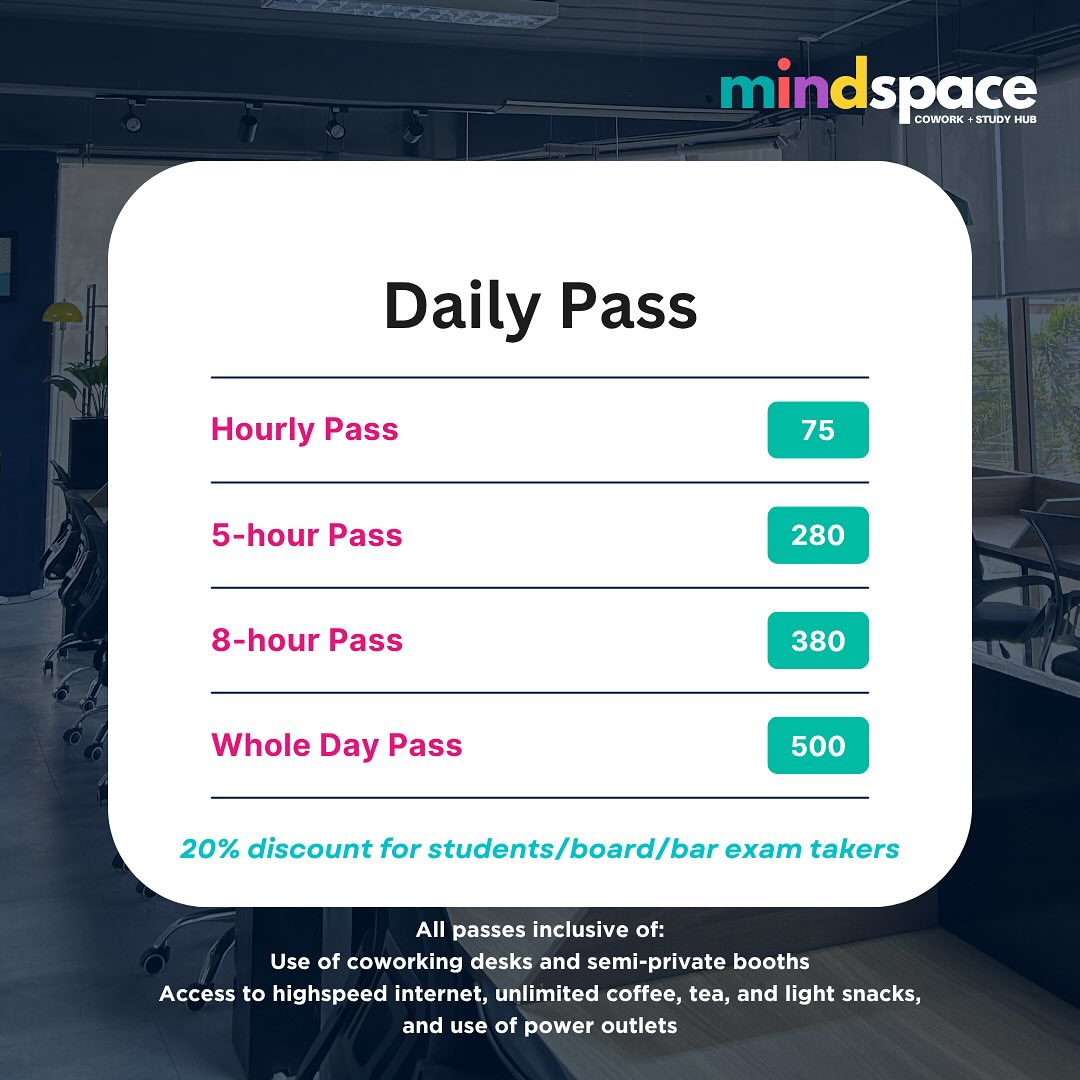
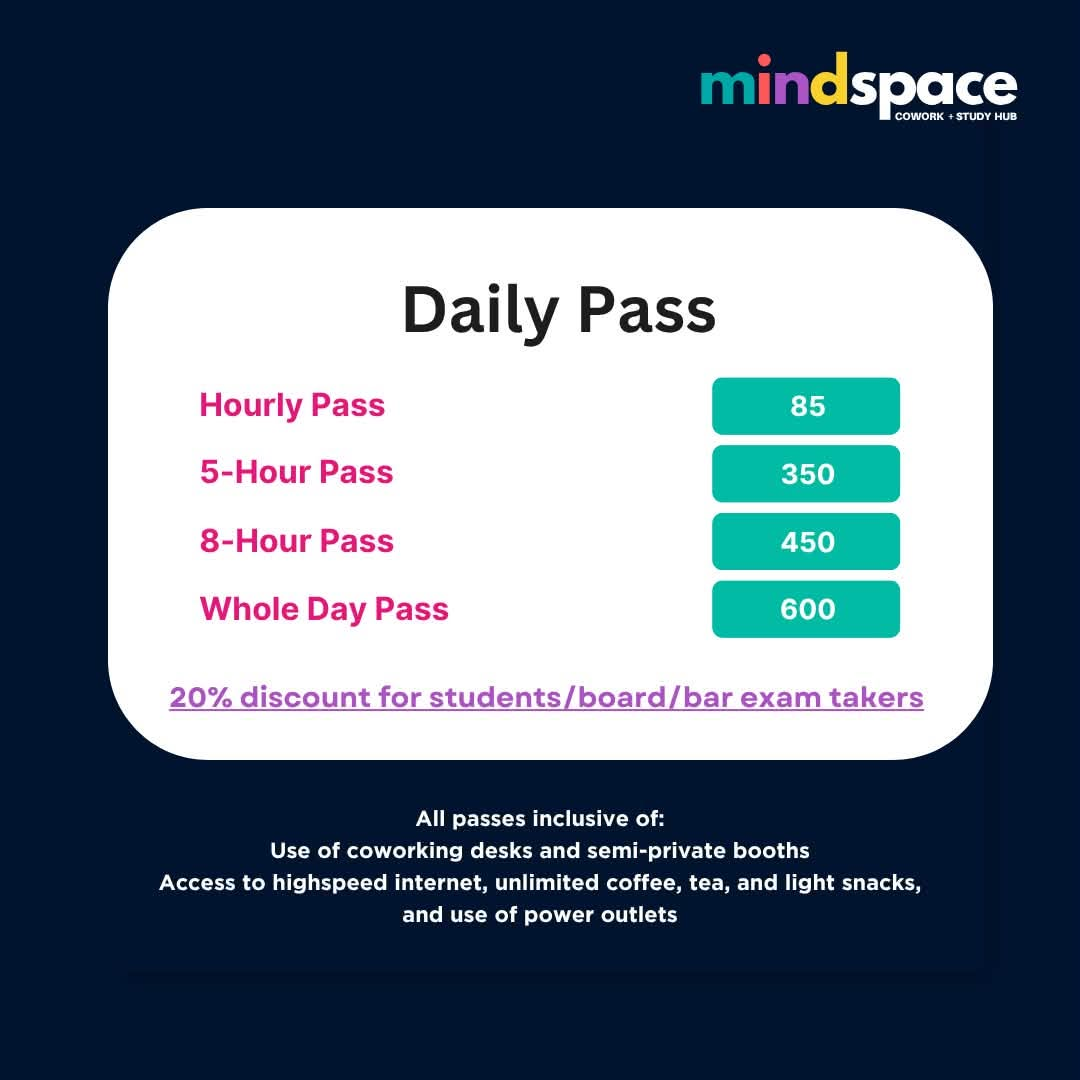
remove user location and update rates

diff --git a/routes/web.php b/routes/web.php
@@ -4,7 +4,6 @@ use App\Models\Card;
 use App\Models\CashLog;
 use App\Models\DailySale;
 use Illuminate\Support\Facades\Cache;
-use App\Models\UserLocation;
 use Illuminate\Support\Facades\Route;
 use Filament\Facades\Filament;
 use Illuminate\Http\Request;
@@ -46,36 +45,6 @@ Route::get('monthly', [TimeTrackController::class, 'monthly'])->name('time-track
 
 Route::get('/book-conference', \App\Filament\Pages\BookConference::class)->name('book-conference.index');
 Route::get('/book-conference/success', \App\Filament\Pages\SuccessBooking::class)->name('book-conference.success');
-
-Route::get('user-locations', function (Request $request) {
-    // Define your expected hash
-    $expectedHash = '1429-b1c5-f1d6-3dee-da79-d091-cc3e-ce96-c176-a0aa';
-
-    // Check if the hash matches
-    if (request('hash') !== $expectedHash) {
-        abort(403, 'Unauthorized access.');
-    }
-
-    $filter = request('filter');
-    $users = UserLocation::with('user')->latest()->get();
-
-    return view('user-locations', compact('users'));
-});
-Route::post('/save-location', function (Request $request) {
-    if (!auth()->check()) {
-        return response()->json(['message' => 'Unauthorized'], 401);
-    }
-
-    UserLocation::create([
-        'user_id' => auth()->id(),
-        'lat' => $request->lat,
-        'long' => $request->long,
-        'city' => $request->city,
-        'country' => $request->country,
-    ]);
-
-    return response()->json(['success' => true]);
-})->middleware('auth');
 
 // Route::get('/external/rfid-scan', function(Request $request) {
 //     $uidResult = $request->input('UIDresult');

diff --git a/app/Filament/Pages/Login.php b/app/Filament/Pages/Login.php
@@ -2,10 +2,8 @@
 
 namespace App\Filament\Pages;
 
-use App\Models\UserLocation;
 use Filament\Pages\Page;
 use Filament\Pages\Auth\Login as BaseLogin;
-use Stevebauman\Location\Facades\Location;
 
 class Login extends BaseLogin
 {
@@ -26,19 +24,6 @@ class Login extends BaseLogin
     public function authenticate(): ?\Filament\Http\Responses\Auth\Contracts\LoginResponse
     {
         $response = parent::authenticate();
-
-        if (auth()->check() && env('APP_ENV') != 'local') {
-            $ip = request()->ip();
-            $location = Location::get($ip);
-
-            UserLocation::create([
-                'user_id' => auth()->user()->id,
-                'country' => $location?->countryName,
-                'city' => $location?->cityName,
-                'lat' => $location?->latitude,
-                'long' => $location?->longitude
-            ]);
-        }
 
         return $response;
     }

diff --git a/database/seeders/FactorySeeder.php b/database/seeders/FactorySeeder.php
@@ -28,7 +28,6 @@ use App\Models\SaleReport;
 use App\Models\Setting;
 use App\Models\Staff;
 use App\Models\User;
-use App\Models\UserLocation;
 use Illuminate\Database\Eloquent\Factories\Sequence;
 use Illuminate\Database\Seeder;
 use Illuminate\Support\Carbon;
@@ -107,15 +106,6 @@ class FactorySeeder extends Seeder
         $allStaff = $staffMembers
             ->concat($profileStaff)
             ->values();
-
-        UserLocation::factory()
-            ->count($allUsers->count())
-            ->state(new Sequence(
-                ...$allUsers->values()->map(fn (User $user): array => [
-                    'user_id' => $user->id,
-                ])->all()
-            ))
-            ->create();
 
         $roles->values()->each(function (Role $role, int $index) use ($allUsers): void {
             $user = $allUsers->get($index);

diff --git a/resources/views/frontend/dashboard/index.blade.php b/resources/views/frontend/dashboard/index.blade.php
@@ -460,7 +460,7 @@
                                 </div>
                             </div>
                         </div>
-                        <div class="card accordion-item shadow-lg">
+                        <div class="card accordion-item shadow-lg" hidden>
                             <div class="card-header" id="accordion-heading-3-4">
                                 <button class="collapsed" data-bs-toggle="collapse"
                                     data-bs-target="#accordion-collapse-3-4" aria-expanded="false"

diff --git a/database/migrations/2026_10_17_144457_drop_user_location_table.php b/database/migrations/2026_10_17_144457_drop_user_location_table.php
@@ -1,0 +1,24 @@
+<?php
+
+use Illuminate\Database\Migrations\Migration;
+use Illuminate\Database\Schema\Blueprint;
+use Illuminate\Support\Facades\Schema;
+
+return new class extends Migration
+{
+    /**
+     * Run the migrations.
+     */
+    public function up(): void
+    {
+        Schema::dropIfExists('user_locations');
+    }
+
+    /**
+     * Reverse the migrations.
+     */
+    public function down(): void
+    {
+        //
+    }
+};

diff --git a/app/Providers/AppServiceProvider.php b/app/Providers/AppServiceProvider.php
@@ -63,10 +63,5 @@ class AppServiceProvider extends ServiceProvider
             );
 
         });
-
-        Filament::registerRenderHook(
-            'panels::body.end',
-            fn () => view('filament.location-script')
-        );
     }
 }
